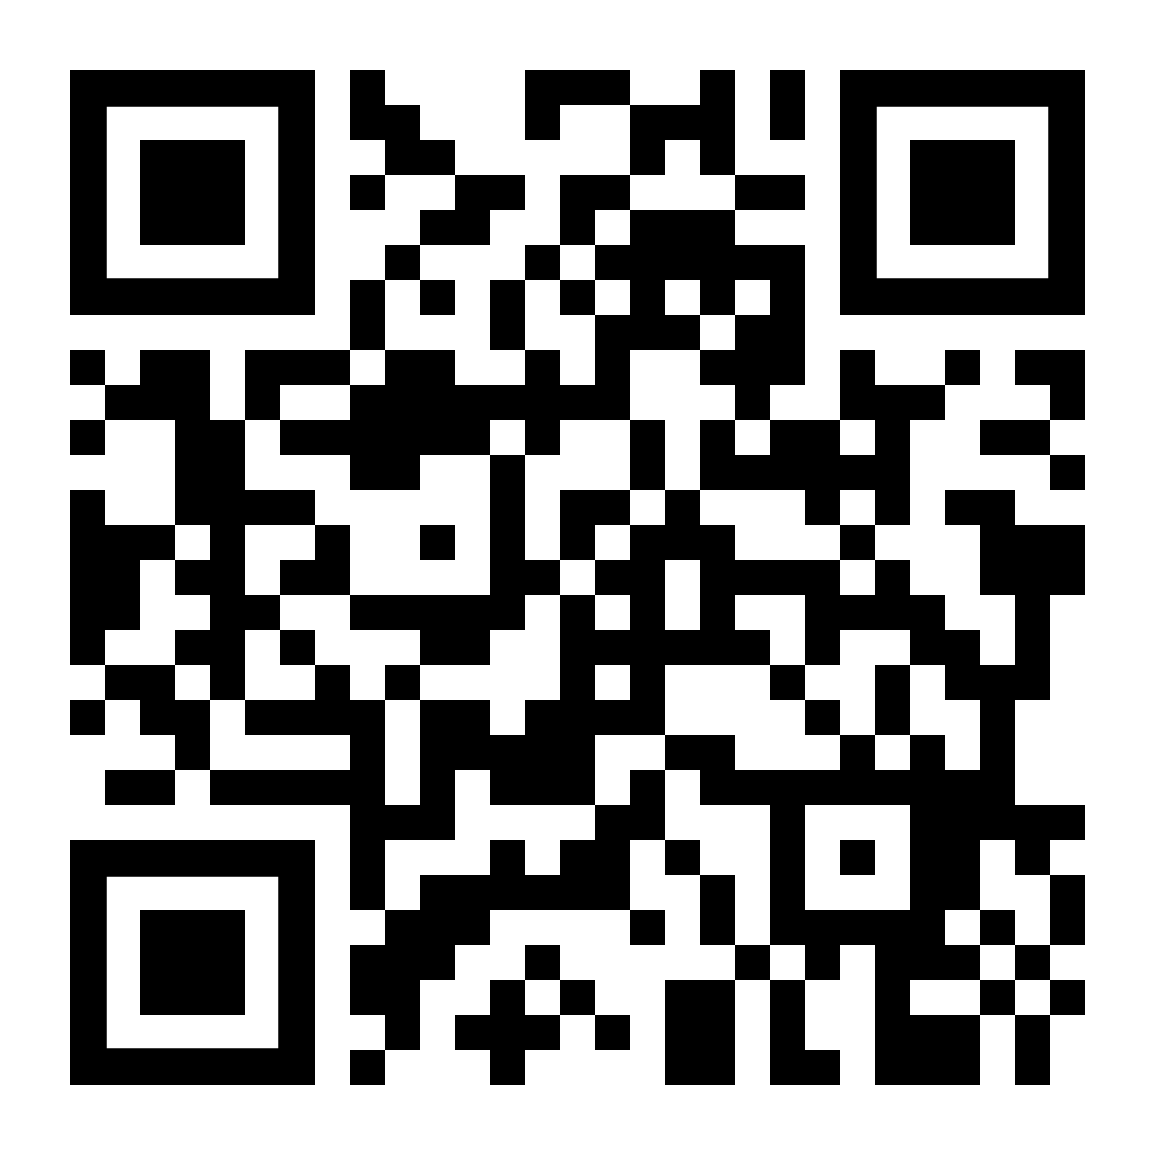
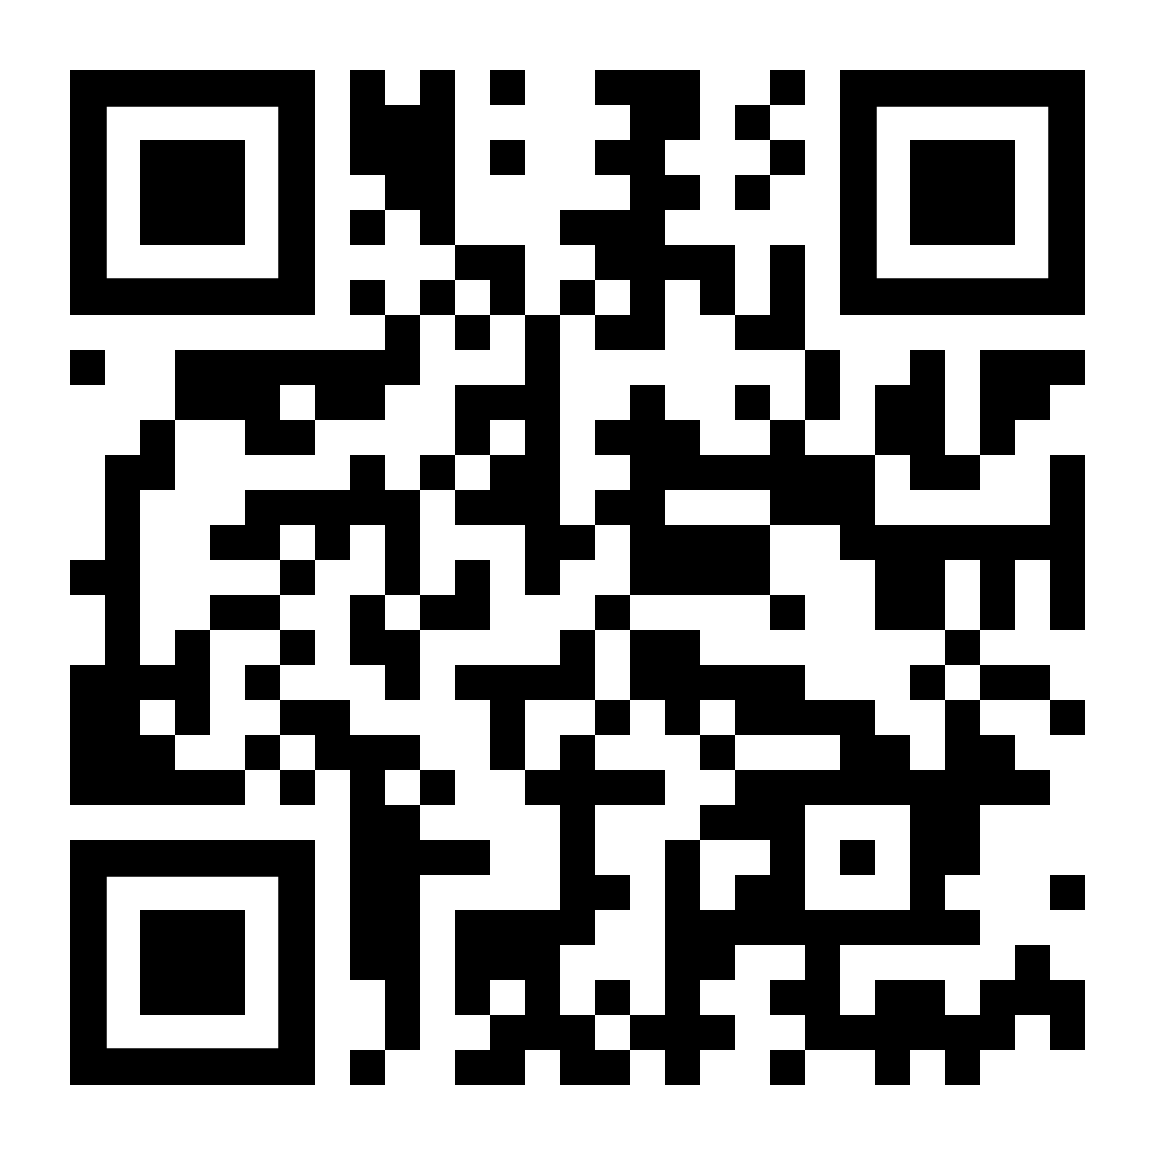
tech2 up

Changed region(s): [[0.0623, 0.0623, 0.9662, 0.9662]]

diff --git a/FS1005_15.html b/FS1005_15.html
@@ -72,12 +72,12 @@
             <section>
 				<p> To view the <b>video</b> just follow the links:
 					<br>
-					<a href="https://youtu.be/DyD3ZEVWtEQ">👉<i>https://youtu.be/DyD3ZEVWtEQ</i></a>
+					<a href="https://youtu.be/VpNi_7yTkDE">👉<i>https://youtu.be/VpNi_7yTkDE</i></a>
 				</p>
 
 				<img title="Scan me with your phone!" src="img/qr_fs1005_yt15.png" alt="if you don't see a QR code click the link" style="height: 340px; margin: 0 auto 4rem auto; background: transparent;" class="qr_code">
 					<br>
-				<a href="http://edibotopic.github.io/lecture-slides/FS1005_15.html?print-pdf" title="For your added convenience">Click here for printable version👈</a>
+				<!-- <a href="http://edibotopic.github.io/lecture-slides/FS1005_15.html?print-pdf" title="For your added convenience">Click here for printable version👈</a> -->
 			
 			</section>
 

diff --git a/index.md b/index.md
@@ -40,7 +40,7 @@ Lecture#10: [Food Technology I: Science, Art, Design](http://edibotopic.github.i
 
 <!-- Lecture#10: [(Re)Introduction](http://edibotopic.github.io/lecture-slides/FS1005_12.html) -->
 
-<!-- Lecture#13: [Food Technology II: Technological Development](http://edibotopic.github.io/lecture-slides/FS1005_15.html) -->
+Lecture#13: [Food Technology II: Technological Development](http://edibotopic.github.io/lecture-slides/FS1005_15.html)
 
 <!-- Lecture#14: [Techno-ethics I: Introduction](http://edibotopic.github.io/lecture-slides/FS1005_16.html) -->
 
@@ -72,7 +72,6 @@ Lecture#6: [Hydrostatics I](http://edibotopic.github.io/lecture-slides/FS2006_6.
 Lecture#7: [Hydrostatics II](http://edibotopic.github.io/lecture-slides/FS2006_8.html)
 
 <!-- Lecture#7: [Intermission: Excel Basics](http://edibotopic.github.io/lecture-slides/FS2006_7.html) -->
-
 
 <!-- Lecture#9: [Hydrodynamics I](http://edibotopic.github.io/lecture-slides/FS2006_9.html) -->
 
